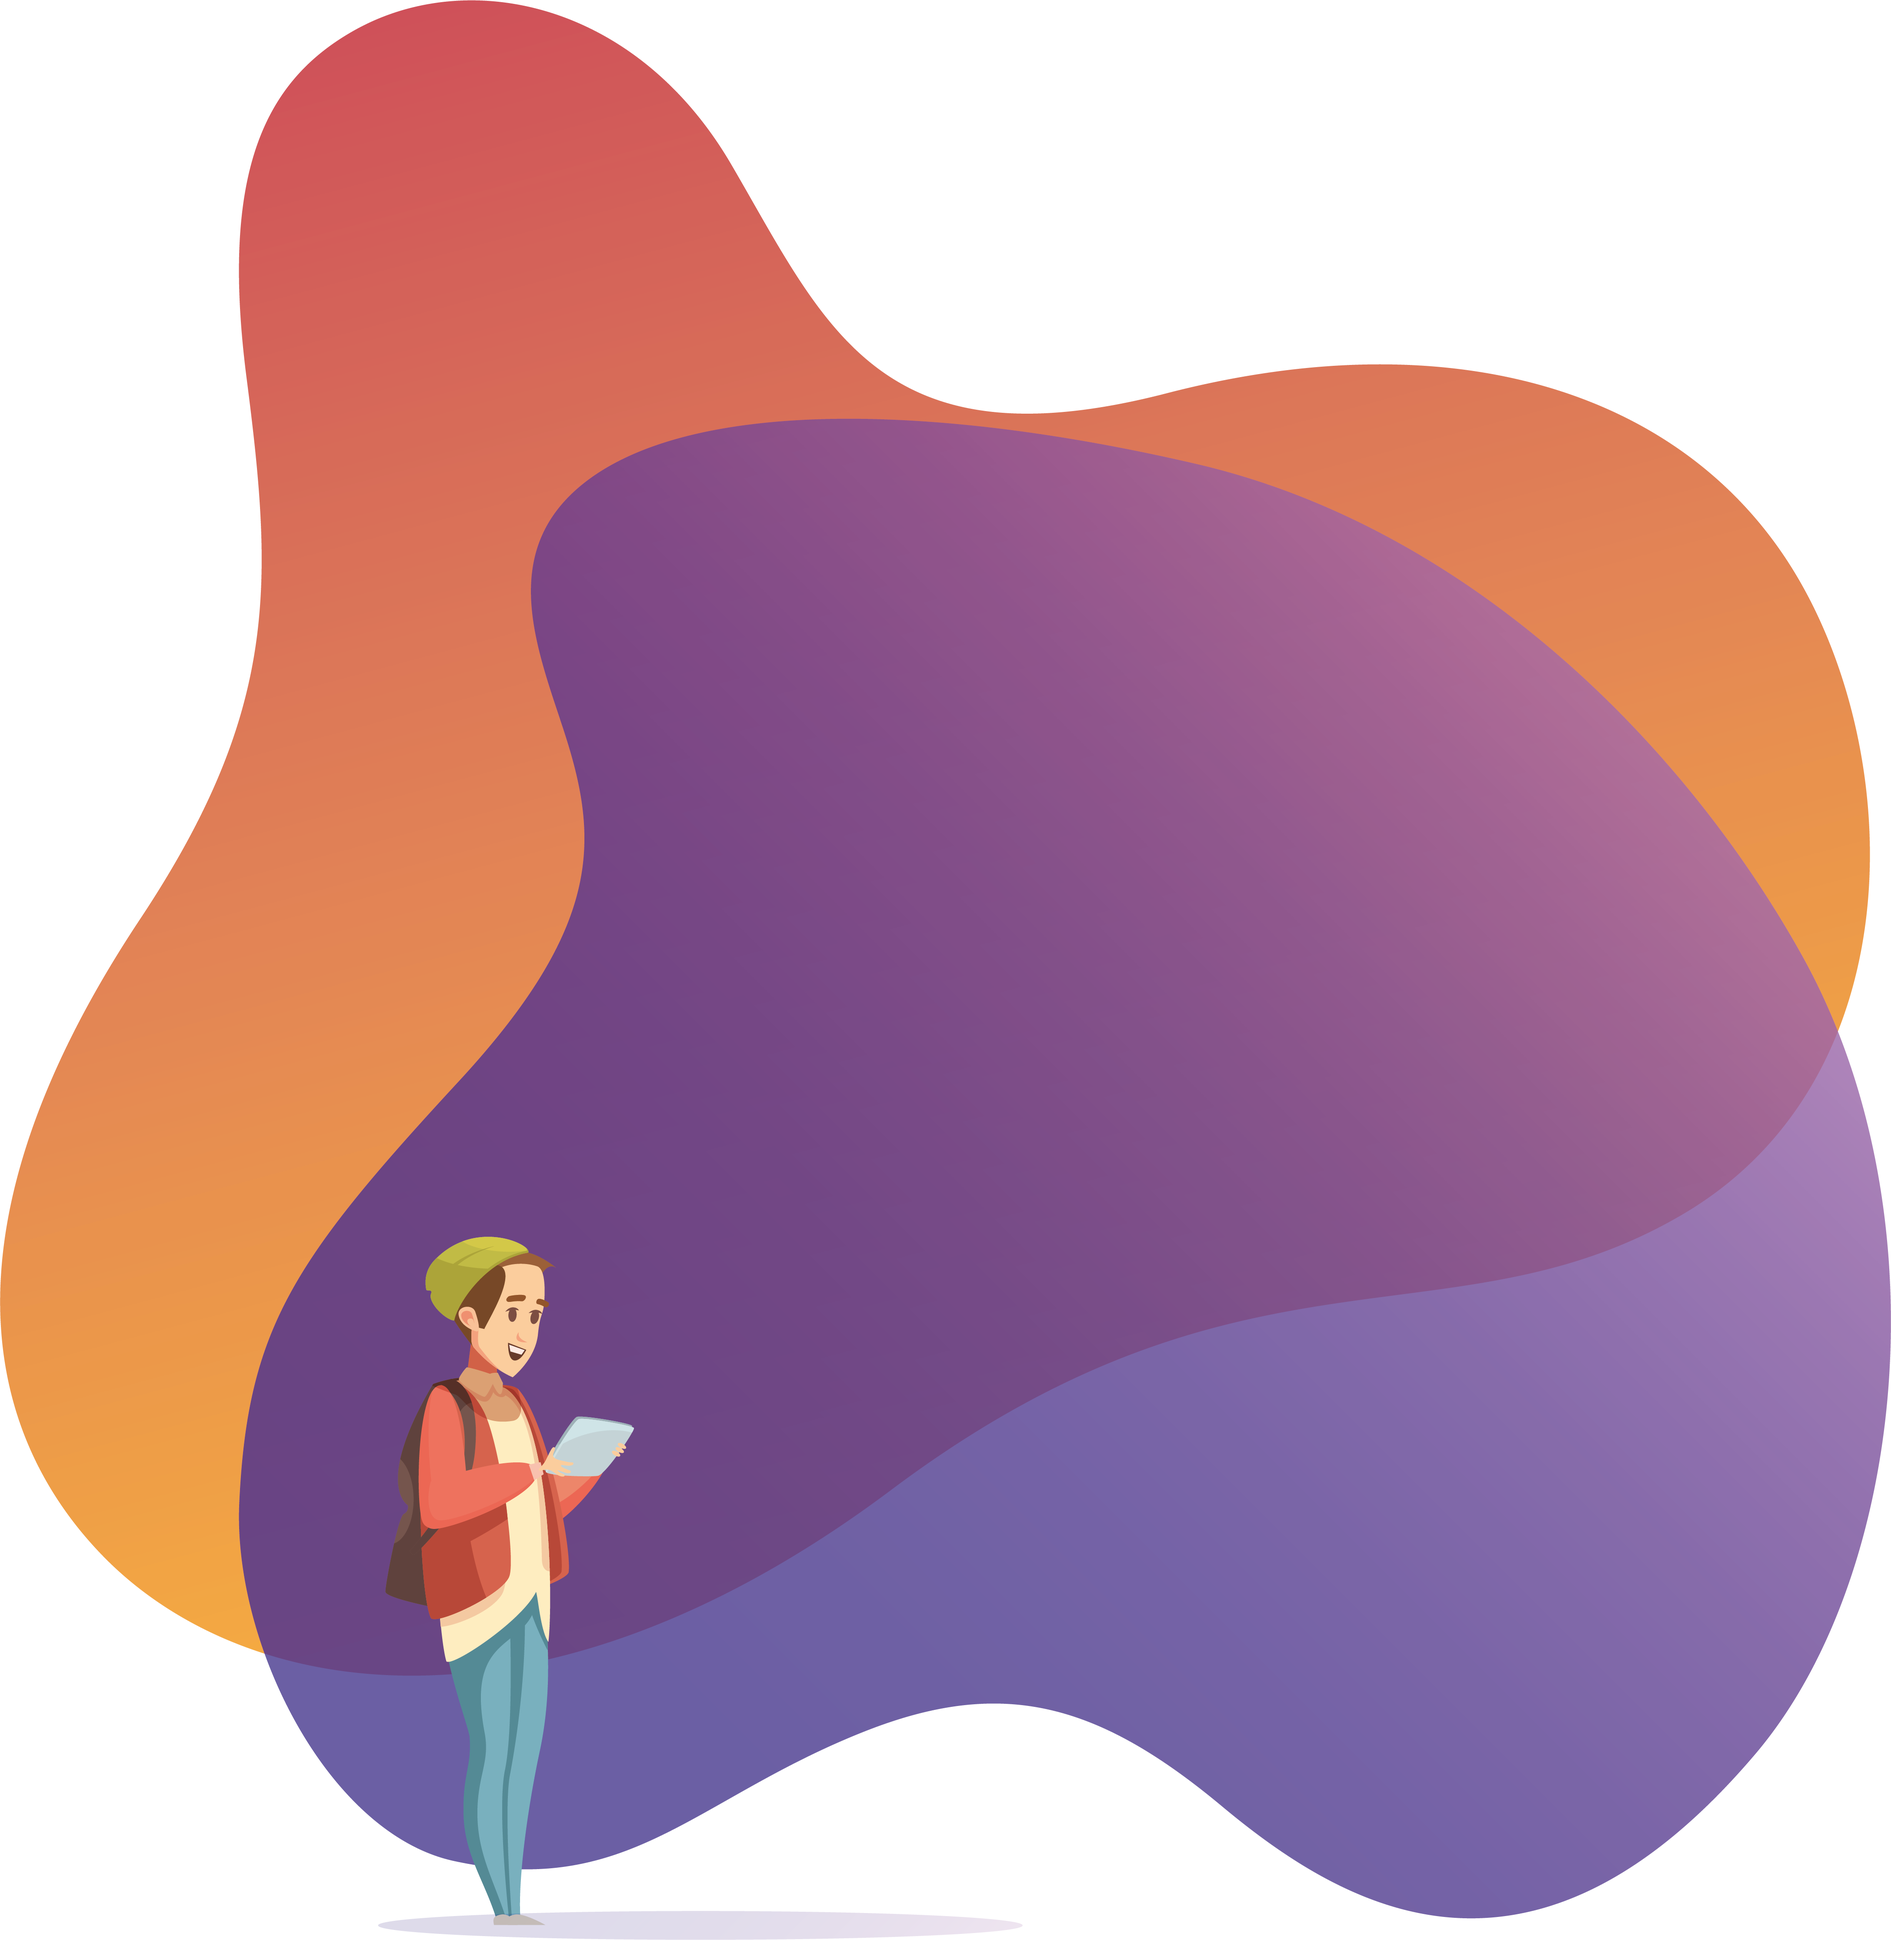
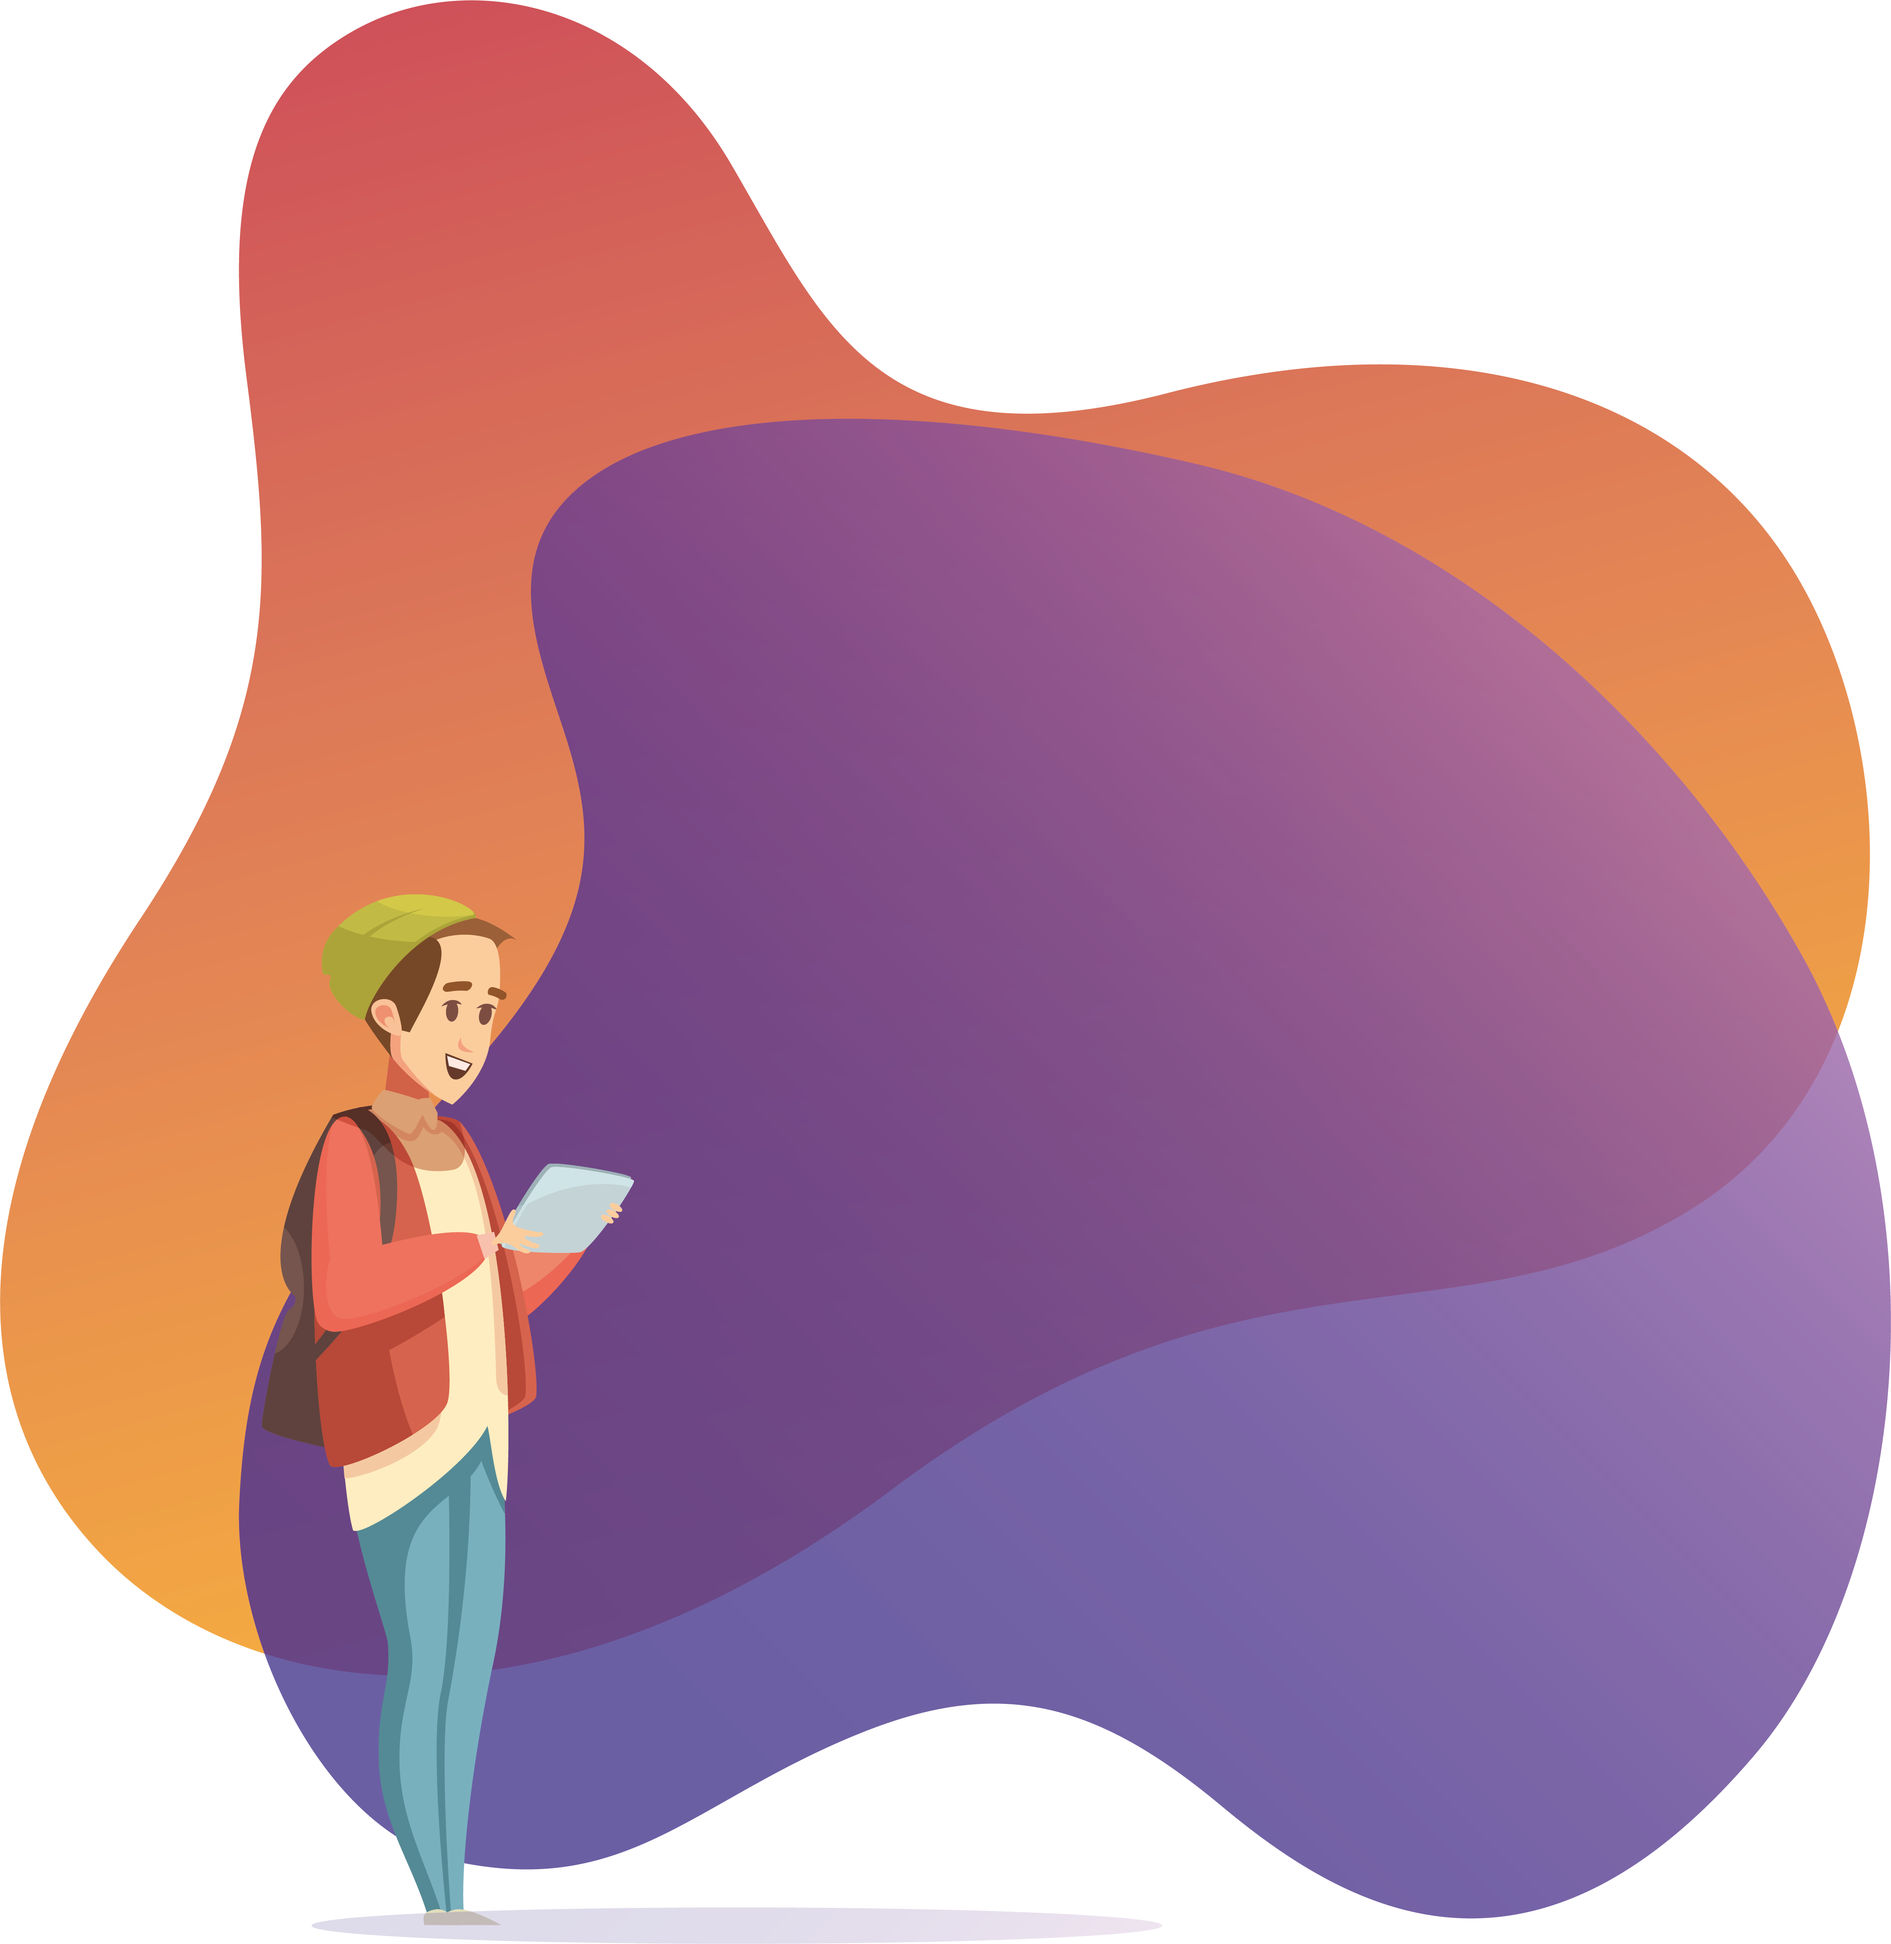
services img update

Changed region(s): [[0.1242, 0.4363, 0.6208, 1.0]]

diff --git a/services.html b/services.html
@@ -621,7 +621,7 @@
                 <h2 class="section-title text-center mb-5">Developer Services</h2>
                 <div class="row mb-5">
                     <div class="col-lg-4 ml-5 order-2 order-lg-2" data-aos="fade" data-aos="fade-up" data-aos-delay="">
-                        <img src="img/lay.png" alt="Image" class="img-fluid rounded">
+                        <img src="img/lay2.png" alt="Image" class="img-fluid rounded">
                     </div>
                     <div class="col-lg-7 order-1 order-lg-1" data-aos="fade">
                         <div class="row">
